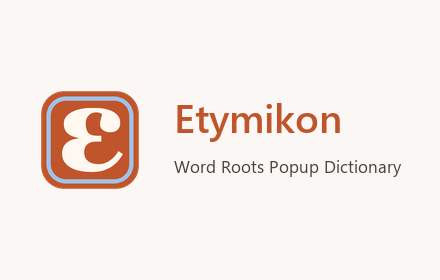
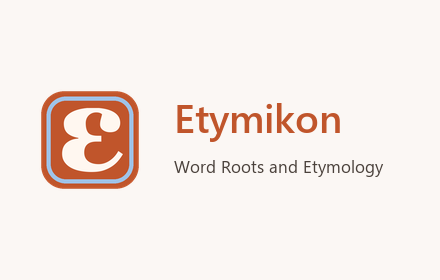
Widen the store name to the word readers search for
The store name becomes "Etymikon: Word Roots and Etymology Popup
Dictionary" (Jesse decision 2026-09-07). The old name carried no term
anyone searches for except dictionary, and the store indexes the title.

The title names the subject. It does not promise the genre, and the
SPEC note says so with the measurement behind it: 17.9% of shipped
words reach a named older language, and no entry carries a date, a
sense history or a cognate. The description says what a card shows and
never claims a complete etymology.

The promo tiles take a shorter tagline, "Word Roots and Etymology". The
full name is 41 characters of tagline and overflows the small tile, and
a promo image is artwork rather than an indexed field, so it carries
the subject and drops the format words the title needs for search.

Changed region(s): [[0.5909, 0.5714, 0.9159, 0.6286]]

diff --git a/pipeline/make_promo.py b/pipeline/make_promo.py
@@ -51,7 +51,11 @@ MUTED = (74, 65, 59)
 FAINT = (150, 136, 126)
 
 WORDMARK = "Etymikon"
-TAGLINE = "Word Roots Popup Dictionary"
+# Shorter than the store name on purpose. The full name is 41 characters
+# of tagline and overflows the small tile, and a promo image is artwork
+# rather than an indexed field, so it carries the subject and drops the
+# format words the store title needs for search.
+TAGLINE = "Word Roots and Etymology"
 # The worked example from the manifest description: a real shipped breakdown,
 # not a slogan.
 EXAMPLE = "subterranean  =  sub-  +  terra  +  -an"

diff --git a/SPEC.md b/SPEC.md
@@ -18,7 +18,14 @@ needs its full binding detail.
 - Name: Etymikon (Greek etymos "true sense" + -ikon, the lexicon
   formation). The K spelling is binding. Tagline (Jesse decision
   2026-08-25, the Okpyeon pattern with a colon): the manifest and
-  store name is "Etymikon: Word Roots Popup Dictionary".
+  store name is "Etymikon: Word Roots and Etymology Popup Dictionary"
+  (Jesse decision 2026-09-07, widened from "Etymikon: Word Roots
+  Popup Dictionary" so the store indexes the word readers actually
+  search for). The title names the subject; it does not promise the
+  genre. Only 17.9% of shipped words reach a named older language,
+  and no entry carries a date, a sense history or a cognate, so the
+  DESCRIPTION says what the cards show and never says "complete
+  etymology".
 - Audience: native speakers building vocabulary (GRE/SAT register).
   Wiktionary definitions ship as harvested, no simplification pass.
 - Dictionary scope: general English dictionary. Every shipped word gets
